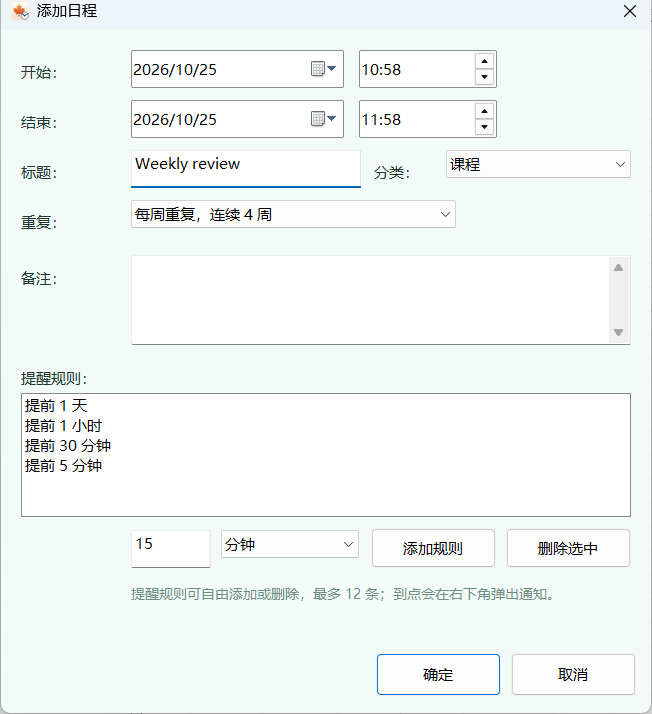
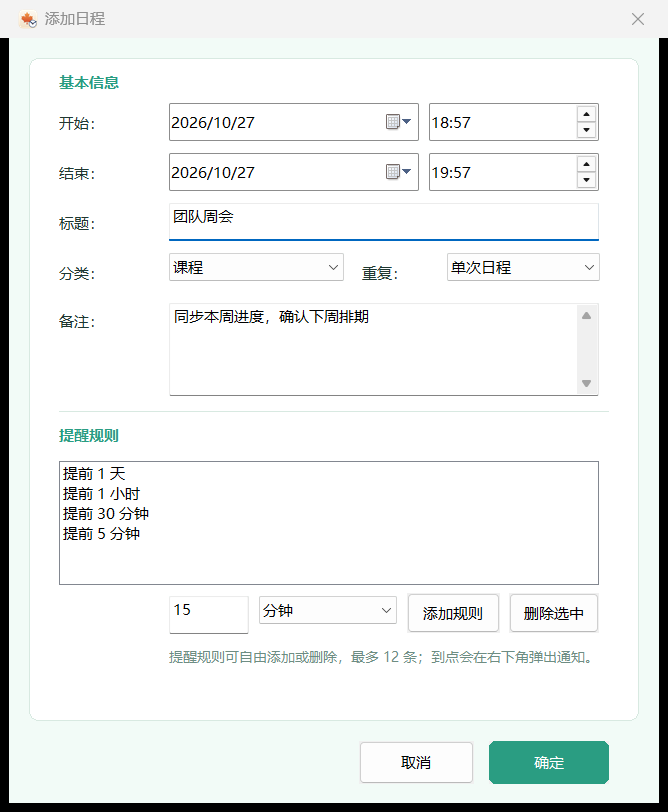
feat: unify add-event dialog with card layout matching main window

diff --git a/main.cpp b/main.cpp
@@ -466,12 +466,14 @@ enum { LANG_ZH = 0, LANG_JA = 1, LANG_EN = 2, LANG_COUNT = 3 };
     X(CONFIRM_DELETE_MULTI, L"确定删除选中的 %d 个日程吗？此操作不可恢复。", L"選択した %d 件の予定を削除しますか？この操作は元に戻せません。", L"Delete the %d selected events? This cannot be undone.") \
     X(CONFIRM_DEL_TITLE, L"确认删除", L"削除の確認", L"Confirm deletion") \
     X(ADD_TITLE,       L"添加日程", L"予定を追加", L"Add event") \
+    X(ADD_SEC_BASE,    L"基本信息", L"基本情報", L"Event details") \
+    X(ADD_SEC_RULES,   L"提醒规则", L"通知ルール", L"Reminders") \
     X(LBL_START,       L"开始：", L"開始：", L"Start:") \
     X(LBL_END,         L"结束：", L"終了：", L"End:") \
     X(LBL_TITLE,       L"标题：", L"タイトル：", L"Title:") \
     X(LBL_NOTE,        L"备注：", L"メモ：", L"Note:") \
     X(LBL_RULES,       L"提醒规则：", L"通知ルール：", L"Reminders:") \
-    X(LBL_REPEAT,      L"重复：", L"繰り返し：", L"Repeat:") \
+    X(LBL_REPEAT,      L"重复：", L"繰返し：", L"Repeat:") \
     X(REPEAT_ONCE,     L"单次日程", L"単発の予定", L"Single event") \
     X(REPEAT_WEEKS,    L"每周重复，连续 %d 周", L"毎週繰り返し（%d 週間）", L"Weekly for %d weeks") \
     X(ERR_TASK_REPEAT, L"连续日程将超出数量上限，请减少周数。", L"繰り返し予定が上限を超えます。週数を減らしてください。", L"The weekly events would exceed the event limit. Reduce the number of weeks.") \
@@ -2422,40 +2424,104 @@ static void ShowNotice(HWND hWnd, int strId)
         MB_OK | MB_ICONWARNING | MB_TOPMOST);
 }
 
+/* 卡片式布局参数：与“设置”窗口共用同一套间距和配色 */
+#define ADDDLG_CW        S(520)
+#define ADDDLG_CH        S(612)
+#define ADDDLG_M         S(16)
+#define ADDDLG_CARD_W    (ADDDLG_CW - 2 * ADDDLG_M)
+#define ADDDLG_CARD_H    S(530)
+#define ADDDLG_PX        S(24)
+#define ADDDLG_LABEL_X   (ADDDLG_M + ADDDLG_PX)
+#define ADDDLG_CTRL_X    (ADDDLG_LABEL_X + S(88))
+#define ADDDLG_RIGHT     (ADDDLG_M + ADDDLG_CARD_W - ADDDLG_PX)
+#define ADDDLG_BTN_W     S(96)
+#define ADDDLG_BTN_H     S(34)
+
+static void SetDlgFillCard(HDC hdc, const RECT* rc);
+static void SetDlgHairline(HDC hdc, int x1, int x2, int y);
+static void SetDlgDrawOk(LPDRAWITEMSTRUCT dis);
+
+/* 对话框背景：白色圆角卡片 + 两个分区标题 + 一条分隔线 */
+static void AddDlgPaint(HWND hWnd)
+{
+    PAINTSTRUCT ps;
+    HDC hdc = BeginPaint(hWnd, &ps);
+
+    RECT rc;
+    GetClientRect(hWnd, &rc);
+    FillRect(hdc, &rc, g_hDlgBrush);
+
+    RECT card;
+    SetRect(&card, ADDDLG_M, ADDDLG_M,
+        ADDDLG_M + ADDDLG_CARD_W, ADDDLG_M + ADDDLG_CARD_H);
+    SetDlgFillCard(hdc, &card);
+
+    HGDIOBJ oldFont = SelectObject(hdc, g_fontBold);
+    SetBkMode(hdc, TRANSPARENT);
+    SetTextColor(hdc, g_theme->accent);
+
+    RECT t;
+    SetRect(&t, ADDDLG_LABEL_X, ADDDLG_M + S(8),
+        ADDDLG_RIGHT, ADDDLG_M + S(32));
+    DrawTextW(hdc, Str(STR_ADD_SEC_BASE), -1, &t,
+        DT_LEFT | DT_VCENTER | DT_SINGLELINE | DT_NOPREFIX);
+
+    SetRect(&t, ADDDLG_LABEL_X, ADDDLG_M + S(290),
+        ADDDLG_RIGHT, ADDDLG_M + S(314));
+    DrawTextW(hdc, Str(STR_ADD_SEC_RULES), -1, &t,
+        DT_LEFT | DT_VCENTER | DT_SINGLELINE | DT_NOPREFIX);
+
+    SelectObject(hdc, oldFont);
+
+    SetDlgHairline(hdc, ADDDLG_LABEL_X, ADDDLG_RIGHT, ADDDLG_M + S(282));
+
+    EndPaint(hWnd, &ps);
+}
+
 static BOOL AddDlg_OnCreate(HWND hWnd)
 {
-    CreateLabel(hWnd, Str(STR_LBL_START), S(16), S(20), S(80), S(28));
+    /* —— 日程信息 —— */
+    CreateLabel(hWnd, Str(STR_LBL_START), ADDDLG_LABEL_X,
+        ADDDLG_M + S(38), S(88), S(28));
     g_dlgSDate = CreateWindowExW(0, DATETIMEPICK_CLASSW, L"",
         WS_CHILD | WS_VISIBLE | WS_TABSTOP | DTS_SHORTDATEFORMAT,
-        S(104), S(16), S(170), S(30), hWnd, (HMENU)(LONG_PTR)IDC_SDATE, g_hInst, NULL);
+        ADDDLG_CTRL_X, ADDDLG_M + S(36), S(200), S(30),
+        hWnd, (HMENU)(LONG_PTR)IDC_SDATE, g_hInst, NULL);
     DateTime_SetFormat(g_dlgSDate, L"yyyy/MM/dd");
 
     g_dlgSTime = CreateWindowExW(0, DATETIMEPICK_CLASSW, L"",
         WS_CHILD | WS_VISIBLE | WS_TABSTOP | DTS_TIMEFORMAT,
-        S(286), S(16), S(110), S(30), hWnd, (HMENU)(LONG_PTR)IDC_STIME, g_hInst, NULL);
+        ADDDLG_CTRL_X + S(208), ADDDLG_M + S(36), S(136), S(30),
+        hWnd, (HMENU)(LONG_PTR)IDC_STIME, g_hInst, NULL);
     DateTime_SetFormat(g_dlgSTime, L"HH:mm");
 
-    CreateLabel(hWnd, Str(STR_LBL_END), S(16), S(60), S(80), S(28));
+    CreateLabel(hWnd, Str(STR_LBL_END), ADDDLG_LABEL_X,
+        ADDDLG_M + S(78), S(88), S(28));
     g_dlgEDate = CreateWindowExW(0, DATETIMEPICK_CLASSW, L"",
         WS_CHILD | WS_VISIBLE | WS_TABSTOP | DTS_SHORTDATEFORMAT,
-        S(104), S(56), S(170), S(30), hWnd, (HMENU)(LONG_PTR)IDC_EDATE, g_hInst, NULL);
+        ADDDLG_CTRL_X, ADDDLG_M + S(76), S(200), S(30),
+        hWnd, (HMENU)(LONG_PTR)IDC_EDATE, g_hInst, NULL);
     DateTime_SetFormat(g_dlgEDate, L"yyyy/MM/dd");
 
     g_dlgETime = CreateWindowExW(0, DATETIMEPICK_CLASSW, L"",
         WS_CHILD | WS_VISIBLE | WS_TABSTOP | DTS_TIMEFORMAT,
-        S(286), S(56), S(110), S(30), hWnd, (HMENU)(LONG_PTR)IDC_ETIME, g_hInst, NULL);
+        ADDDLG_CTRL_X + S(208), ADDDLG_M + S(76), S(136), S(30),
+        hWnd, (HMENU)(LONG_PTR)IDC_ETIME, g_hInst, NULL);
     DateTime_SetFormat(g_dlgETime, L"HH:mm");
 
-    CreateLabel(hWnd, Str(STR_LBL_TITLE), S(16), S(100), S(80), S(28));
+    CreateLabel(hWnd, Str(STR_LBL_TITLE), ADDDLG_LABEL_X,
+        ADDDLG_M + S(118), S(88), S(28));
     g_dlgTitle = CreateWindowExW(WS_EX_CLIENTEDGE, L"EDIT", L"",
         WS_CHILD | WS_VISIBLE | WS_TABSTOP | ES_AUTOHSCROLL,
-        S(104), S(96), S(184), S(30), hWnd, (HMENU)(LONG_PTR)IDC_TITLE, g_hInst, NULL);
+        ADDDLG_CTRL_X, ADDDLG_M + S(116), S(344), S(30),
+        hWnd, (HMENU)(LONG_PTR)IDC_TITLE, g_hInst, NULL);
     SendMessageW(g_dlgTitle, EM_SETLIMITTEXT, (WPARAM)(MAX_TITLE - 1), 0);
 
-    CreateLabel(hWnd, Str(STR_LBL_CAT), S(298), S(100), S(56), S(28));
+    CreateLabel(hWnd, Str(STR_LBL_CAT), ADDDLG_LABEL_X,
+        ADDDLG_M + S(158), S(88), S(28));
     g_dlgCat = CreateWindowExW(0, L"COMBOBOX", L"",
         WS_CHILD | WS_VISIBLE | WS_TABSTOP | CBS_DROPDOWNLIST | WS_VSCROLL,
-        S(356), S(96), S(148), S(260),
+        ADDDLG_CTRL_X, ADDDLG_M + S(156), S(140), S(240),
         hWnd, (HMENU)(LONG_PTR)IDC_CAT, g_hInst, NULL);
     for (int c = 1; c <= CAT_COUNT; c++)
     {
@@ -2464,10 +2530,11 @@ static BOOL AddDlg_OnCreate(HWND hWnd)
     }
     SendMessageW(g_dlgCat, CB_SETCURSEL, g_dlgCategory - 1, 0);
 
-    CreateLabel(hWnd, Str(STR_LBL_REPEAT), S(16), S(140), S(80), S(28));
+    CreateLabel(hWnd, Str(STR_LBL_REPEAT), ADDDLG_CTRL_X + S(154),
+        ADDDLG_M + S(158), S(66), S(28));
     HWND hRepeat = CreateWindowExW(0, L"COMBOBOX", L"",
         WS_CHILD | WS_VISIBLE | WS_TABSTOP | CBS_DROPDOWNLIST | WS_VSCROLL,
-        S(104), S(136), S(260), S(260),
+        ADDDLG_CTRL_X + S(222), ADDDLG_M + S(156), S(122), S(240),
         hWnd, (HMENU)(LONG_PTR)IDC_REPEAT, g_hInst, NULL);
     SendMessageW(hRepeat, CB_ADDSTRING, 0, (LPARAM)Str(STR_REPEAT_ONCE));
     for (int w = 2; w <= REPEAT_MAX_WEEKS; w++)
@@ -2479,28 +2546,31 @@ static BOOL AddDlg_OnCreate(HWND hWnd)
     }
     SendMessageW(hRepeat, CB_SETCURSEL, 0, 0);
 
-    CreateLabel(hWnd, Str(STR_LBL_NOTE), S(16), S(186), S(80), S(24));
+    CreateLabel(hWnd, Str(STR_LBL_NOTE), ADDDLG_LABEL_X,
+        ADDDLG_M + S(198), S(88), S(24));
     g_dlgNote = CreateWindowExW(WS_EX_CLIENTEDGE, L"EDIT", L"",
         WS_CHILD | WS_VISIBLE | WS_TABSTOP | ES_MULTILINE |
         ES_AUTOVSCROLL | ES_WANTRETURN | WS_VSCROLL,
-        S(104), S(180), S(400), S(72), hWnd, (HMENU)(LONG_PTR)IDC_NOTE, g_hInst, NULL);
+        ADDDLG_CTRL_X, ADDDLG_M + S(196), S(344), S(74),
+        hWnd, (HMENU)(LONG_PTR)IDC_NOTE, g_hInst, NULL);
     SendMessageW(g_dlgNote, EM_SETLIMITTEXT, (WPARAM)(MAX_NOTE - 1), 0);
 
-    CreateLabel(hWnd, Str(STR_LBL_RULES), S(16), S(266), S(400), S(24));
+    /* —— 提醒规则 —— */
     g_dlgRList = CreateWindowExW(WS_EX_CLIENTEDGE, L"LISTBOX", L"",
         WS_CHILD | WS_VISIBLE | WS_TABSTOP | LBS_NOTIFY | WS_VSCROLL |
         LBS_HASSTRINGS,
-        S(16), S(290), S(488), S(100),
+        ADDDLG_LABEL_X, ADDDLG_M + S(322), S(432), S(100),
         hWnd, (HMENU)(LONG_PTR)IDC_RLIST, g_hInst, NULL);
 
     g_dlgRValue = CreateWindowExW(WS_EX_CLIENTEDGE, L"EDIT", L"",
         WS_CHILD | WS_VISIBLE | WS_TABSTOP | ES_AUTOHSCROLL | ES_NUMBER,
-        S(104), S(400), S(64), S(30), hWnd, (HMENU)(LONG_PTR)IDC_RVALUE, g_hInst, NULL);
+        ADDDLG_CTRL_X, ADDDLG_M + S(430), S(64), S(30),
+        hWnd, (HMENU)(LONG_PTR)IDC_RVALUE, g_hInst, NULL);
     SetWindowTextW(g_dlgRValue, L"15");
 
     g_dlgRUnit = CreateWindowExW(0, L"COMBOBOX", L"",
         WS_CHILD | WS_VISIBLE | WS_TABSTOP | CBS_DROPDOWNLIST | WS_VSCROLL,
-        S(176), S(400), S(110), S(240),
+        ADDDLG_CTRL_X + S(72), ADDDLG_M + S(430), S(110), S(240),
         hWnd, (HMENU)(LONG_PTR)IDC_RUNIT, g_hInst, NULL);
     SendMessageW(g_dlgRUnit, CB_ADDSTRING, 0, (LPARAM)Str(STR_UNIT_MIN));
     SendMessageW(g_dlgRUnit, CB_ADDSTRING, 0, (LPARAM)Str(STR_UNIT_HOUR));
@@ -2509,19 +2579,25 @@ static BOOL AddDlg_OnCreate(HWND hWnd)
 
     CreateWindowExW(0, L"BUTTON", Str(STR_RULE_ADD),
         WS_CHILD | WS_VISIBLE | WS_TABSTOP | BS_PUSHBUTTON,
-        S(296), S(398), S(100), S(32), hWnd, (HMENU)(LONG_PTR)IDC_RADD, g_hInst, NULL);
+        ADDDLG_CTRL_X + S(190), ADDDLG_M + S(428), S(74), S(32),
+        hWnd, (HMENU)(LONG_PTR)IDC_RADD, g_hInst, NULL);
     CreateWindowExW(0, L"BUTTON", Str(STR_RULE_DEL),
         WS_CHILD | WS_VISIBLE | WS_TABSTOP | BS_PUSHBUTTON,
-        S(404), S(398), S(100), S(32), hWnd, (HMENU)(LONG_PTR)IDC_RDEL, g_hInst, NULL);
+        ADDDLG_CTRL_X + S(272), ADDDLG_M + S(428), S(72), S(32),
+        hWnd, (HMENU)(LONG_PTR)IDC_RDEL, g_hInst, NULL);
 
-    CreateHint(hWnd, Str(STR_ADD_HINT), S(104), S(442), S(400), S(42), IDC_ADD_HINT);
+    CreateHint(hWnd, Str(STR_ADD_HINT), ADDDLG_CTRL_X,
+        ADDDLG_M + S(470), S(344), S(40), IDC_ADD_HINT);
 
-    CreateWindowExW(0, L"BUTTON", Str(STR_OK),
-        WS_CHILD | WS_VISIBLE | WS_TABSTOP | BS_DEFPUSHBUTTON,
-        S(300), S(498), S(100), S(34), hWnd, (HMENU)(LONG_PTR)IDC_OK, g_hInst, NULL);
     CreateWindowExW(0, L"BUTTON", Str(STR_CANCEL),
         WS_CHILD | WS_VISIBLE | WS_TABSTOP | BS_PUSHBUTTON,
-        S(408), S(498), S(100), S(34), hWnd, (HMENU)(LONG_PTR)IDC_CANCEL, g_hInst, NULL);
+        ADDDLG_RIGHT - S(200), ADDDLG_M + ADDDLG_CARD_H + S(16), S(92), ADDDLG_BTN_H,
+        hWnd, (HMENU)(LONG_PTR)IDC_CANCEL, g_hInst, NULL);
+    CreateWindowExW(0, L"BUTTON", Str(STR_OK),
+        WS_CHILD | WS_VISIBLE | WS_TABSTOP | BS_OWNERDRAW,
+        ADDDLG_RIGHT - ADDDLG_BTN_W, ADDDLG_M + ADDDLG_CARD_H + S(16),
+        ADDDLG_BTN_W, ADDDLG_BTN_H,
+        hWnd, (HMENU)(LONG_PTR)IDC_OK, g_hInst, NULL);
 
     /* 默认开始 = 当前时间，结束 = 1 小时后 */
     SYSTEMTIME now, endTime;
@@ -2748,6 +2824,29 @@ LRESULT CALLBACK AddDlgProc(HWND hWnd, UINT message, WPARAM wParam, LPARAM lPara
         return 1;
     }
 
+    case WM_PAINT:
+        AddDlgPaint(hWnd);
+        return 0;
+
+    case WM_DRAWITEM:
+    {
+        LPDRAWITEMSTRUCT dis = (LPDRAWITEMSTRUCT)lParam;
+        if (dis->CtlID == IDC_OK)
+        {
+            SetDlgDrawOk(dis);
+            return TRUE;
+        }
+        break;
+    }
+
+    case WM_KEYDOWN:
+        if (wParam == VK_RETURN)
+        {
+            OnAddOk(hWnd);
+            return 0;
+        }
+        break;
+
     case WM_CTLCOLORSTATIC:
     {
         int id = GetDlgCtrlID((HWND)lParam);
@@ -2760,7 +2859,7 @@ LRESULT CALLBACK AddDlgProc(HWND hWnd, UINT message, WPARAM wParam, LPARAM lPara
         {
             SetTextColor((HDC)wParam, g_theme->text);
         }
-        return (LRESULT)g_hDlgBrush;
+        return (LRESULT)g_hCardBrush;
     }
 
     case WM_COMMAND:
@@ -2797,7 +2896,7 @@ void ShowAddDialog(void)
     DWORD style = WS_POPUP | WS_CAPTION | WS_SYSMENU;
     DWORD exStyle = WS_EX_DLGMODALFRAME;
     RECT wr;
-    SetRect(&wr, 0, 0, S(520), S(546));
+    SetRect(&wr, 0, 0, ADDDLG_CW, ADDDLG_CH);
     AdjustWindowRectEx(&wr, style, FALSE, exStyle);
 
     g_hAdd = CreateWindowExW(

diff --git a/README.md b/README.md
@@ -1,4 +1,4 @@
-# 时间管理器 · Time-Manager
+# 时间管理器 · Time-Manager
 
 <p align="center">
   <img src="docs/icon.png" width="128" alt="Time-Manager 图标">
@@ -31,9 +31,12 @@
 - **多语言**：设置中可切换中文 / 日本語 / English，点“确定”后立即生效
 - **界面风格**：内置 经典白 / 清新薄荷 / 奶油晨光 / 樱粉初雪 四套主题，设置中切换后立即应用并保存；默认使用“清新薄荷”
 - **统一的设置窗口**：设置改为与主界面同风格的卡片式布局——左侧标签、右侧控件的两栏对齐，分组标题用主题色，分隔线为浅色细线，“确定”按钮为主题色填充；中 / 日 / 英三种语言下都不截断
+- **统一的添加窗口**：添加日程沿用同一套卡片式布局——两组主题色小标题（基本信息 / 提醒规则）、左侧标签右对齐、浅色细分隔线，“确定”为主题色填充按钮；日期、时间、分类、重复与提醒规则（带快捷建议）集中在一屏完成
 - **本地数据**：`tasks.dat` / `settings.dat` 保存在 exe 同目录，UTF-8 编码，不联网、无遥测
 
 ![设置界面](docs/screenshot-settings.png)
+
+![添加日程](docs/screenshot-add.png)
 
 ![四套界面风格](docs/themes.png)
 
